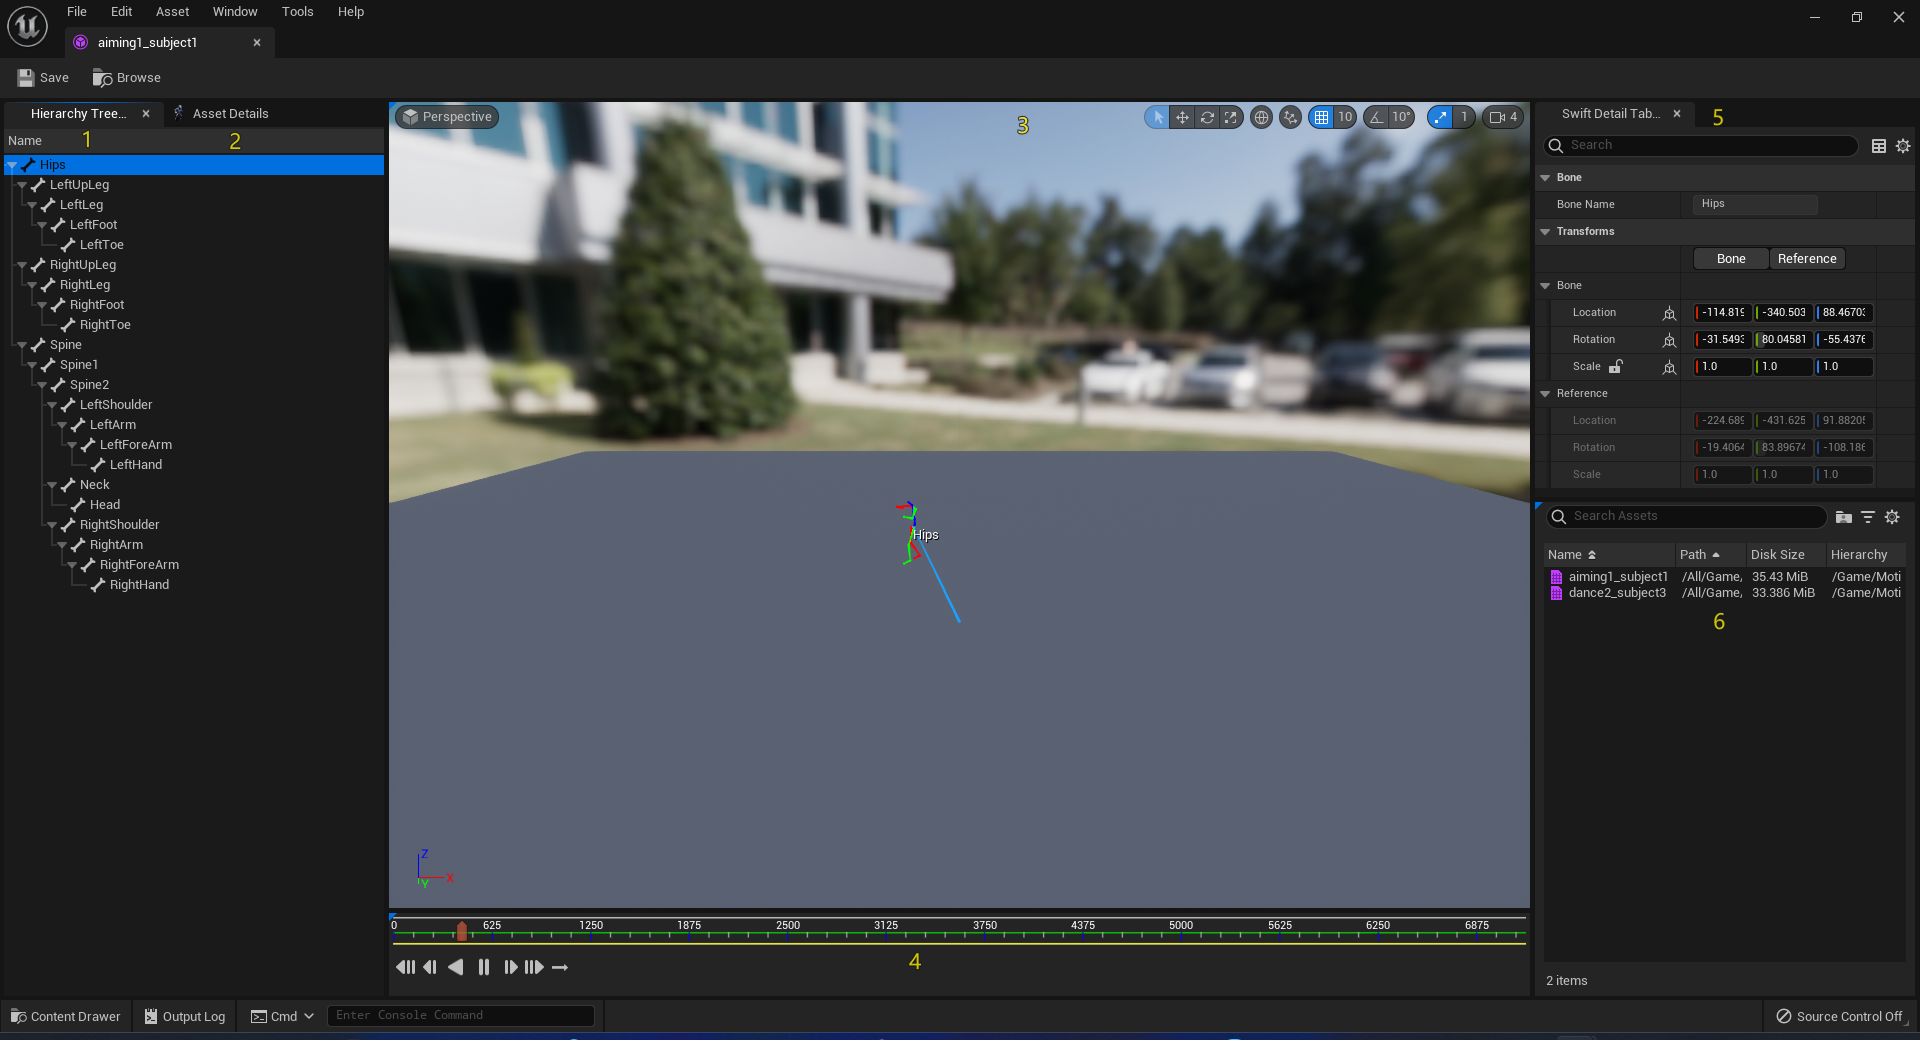
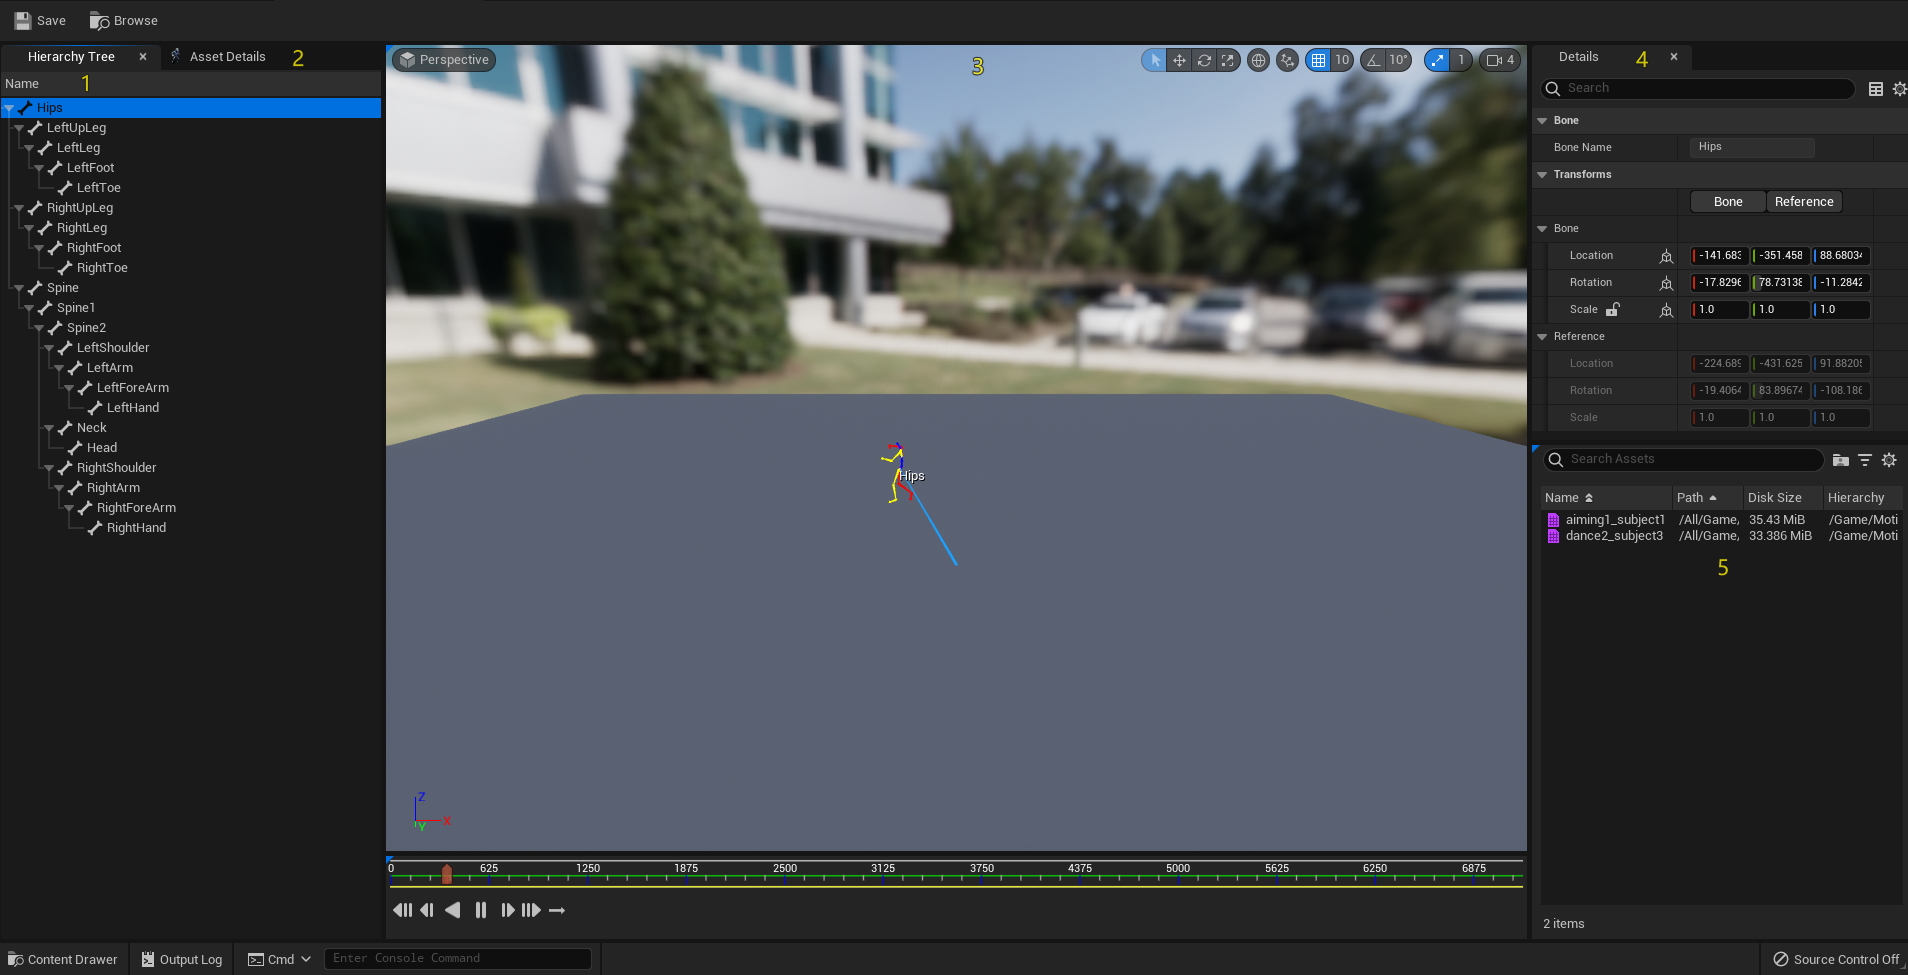
修复并增加资源和文档

diff --git a/doc_proj/docs/index_cn.md b/doc_proj/docs/index_cn.md
@@ -26,6 +26,7 @@
 * Motion Hierarchy
 
     *Motion Hierarchy* 资产记录了Mocap动画使用的的骨架拓扑结构并包含了一个重定向基础姿势。
+    
 
 * Motion Data
 
@@ -48,32 +49,143 @@
     *Motion to AnimSeq Retargeter* 持有一对 *Hierarchy Retargetable* 作为重定向的源和目标。 该资产允许用户对源和目标的骨骼链映射表，和FK、IK以及Root Motion进行配置。并提供重定向结果的预览和导出。
 
 ##编辑器
-* Motion Data Editor
 
-    支持对 Motion Data 的预览。
-![motion_data_editor_overview](img/motion_data_editor_overview.png)
 
-* Motion Hierarchy Editor
-
-    支持对 Motion Hierarchy 的预览和编辑。
+###Motion Hierarchy Editor
+支持对 Motion Hierarchy 的预览和编辑。
 ![motion_hierarchy_editor_overview](img/motion_hierarchy_editor_overview.png)
 
-* Motion Hierarchy Retargetable Editor
+####1. Hierarchy Tree Tab
+
+![motion_hierarchy_tree_tab](img/motion_hierarchy_tree_tab.png)
+
+####2. Asset Details
+
+![motion_data_editor_overview](img/motion_date_editor_asset_details.png)
+
+Property | Description
+------------ | -------------
+Left Joint Identification | 关节名称中左边的标识 
+Left Joint Display Color | 左边关节显示的颜色
+Right Joint Identification | 关节名称中右边的标识
+Right Joint Display Color | 右边关节显示的颜色
+Other Joint Display Color | 其它关节显示的颜色
+
+####3. Viewport Tab
+
+![hierarchy_viewport_details_tab](img/hierarchy_viewport_details_tab.png)
+
+####4. Details Tab
+
+![edit_retarget_base_pose](img/motion_details.png)
+
+####5. Retarget Base Pose Tab
+
+![edit_retarget_base_pose](img/edit_retarget_base_pose.png)
+
+Control | Description
+------------ | -------------
+Use Current Pose | 将视口中的姿势写入 *Retarget Base Pose* 
+Restore to Base Pose | 将 *Retarget Base Pose* 还原至视口
+Reset Pose | 将参考姿势写入 *Retarget Base Pose* 
+
+
+
+###Motion Data Editor
+
+    支持对 Motion Data 的预览。
+    
+![motion_data_editor_overview](img/motion_data_editor_overview.png)
+
+
+####1. Hierarchy Tree Tab
+
+![motion_hierarchy_tree_tab](img/motion_hierarchy_tree_tab.png)
+
+####2. Asset Details Tab
+
+![motion_hierarchy_retargetable_asset_details_tab](img/motion_data_asset_details_tab.png)
+
+####3. Viewport Tab
+
+![motion_hierarchy_viewport_details_tab](img/motion_viewport_details_tab.png)
+
+####4. Player Controller Tab
+
+![player_controller_tab](img/player_controller_tab.png)
+
+通过滚轮可以进行缩放
+![motion_data_player_controller_zoom](img/motion_data_player_controller_zoom.gif)
+
+右键拖拽可以左右平移时间轴
+![motion_data_player_controller_pan](img/motion_data_player_controller_pan.gif)
+
+####5. Details Tab
+
+![edit_retarget_base_pose](img/motion_details.png)
+
+####6. Motion Data Browser Tab
+
+![motion_data_browser](img/motion_data_browser.png)
+
+
+
+###Motion Hierarchy Retargetable Editor
 
     支持对 Motion Hierarchy Retargetable 的预览和编辑。
+    
 ![motion_hierarchy_retargetable_overview](img/motion_hierarchy_retargetable_overview.png)
 
-* Skeleton Hierarchy Editor
+####1. Hierarchy Tree Tab
+
+![motion_hierarchy_tree_tab](img/motion_hierarchy_tree_tab.png)
+
+####2. Asset Details Tab
+
+![motion_hierarchy_retargetable_asset_details_tab](img/motion_hierarchy_retargetable_asset_details_tab.png)
+
+####3. Viewport Tab
+
+![motion_hierarchy_viewport_details_tab](img/motion_hierarchy_viewport_details_tab.png)
+
+####4. Details Tab
+
+![edit_retarget_base_pose](img/motion_details.png)
+
+####5. Edit Retarget Base Pose Tab
+
+![edit_retarget_base_pose](img/edit_retarget_base_pose.png)
+
+Control | Description
+------------ | -------------
+Use Current Pose | 将视口中的姿势写入 *Retarget Base Pose* 
+Restore to Base Pose | 将 *Retarget Base Pose* 还原至视口
+Reset Pose | 将参考姿势写入 *Retarget Base Pose* 
+
+####6. Retarget Chains Tab
+
+![chain_settings](img/chain_settings.png)
+
+允许复制黏贴
+
+![retarget_chain_copy_paste.gif](img/retarget_chain_copy_paste.gif)
+
+
+
+###Skeleton Hierarchy Editor
 
     支持对 Skeleton Hierarchy 的预览和编辑。
-![skeleton_hierarchy_editor_overview.png](img/skeleton_hierarchy_editor_overview.png)
 
-* Skeleton Hierarchy Retargetable Editor
+###Skeleton Hierarchy Retargetable Editor
 
     支持对 Skeleton Hierarchy Retargetable 的预览和编辑。
 ![skeleton_hierarchy_retargetable_editor_overview](img/skeleton_hierarchy_retargetable_editor_overview.png)
 
-* Motion to AnimSeq Retargeter Editor
+
+
+
+
+###Motion to AnimSeq Retargeter Editor
 
     支持对 Motion to AnimSeq Retargeter 的预览和编辑。
 ![motion_to_animseq_retargeter_editor_overview](img/motion_to_animseq_retargeter_editor_overview.png)
@@ -374,26 +486,5 @@
 ![mixamo_to_ue_mesh_preview](img/mixamo_to_ue_mesh_preview.gif)
 
 
-##Properties
-Property | Description
------------- | -------------
-Bone to Modify | Name of bone to control. This is the main bone chain to modify from. 
-Look at Target | Target socket to look at. Used if LookAtBone is empty. - You can use  LookAtLocation if you need offset from this point. That location will be used in their local space. 
-Use Look Up Axis | Whether or not to use Look up axis 
-Up Axis Locked | If useLookUpAxis is enabled, whether or not to lock the Up Axis.
-Look Up Axis | If the Up Axis is used, System will try to rotate the bone around it until Forward Axis point to the desired point or be clamped.
-Look at Clamp | Look at Clamp value in degrees - it will clamp the modified look at axis in a cone which aligns to the original forward axis direction.
-Clamp Ratio | Clamp Ratio is the ratio of dimension in the pitch and yaw directions. 
-Approximate Clamp | Approximate Clamp is only effect when Use Up Axis is enabled and Up Axis Locked is disabled. It is a trade-off between performance and precision.
-Interpolated |  Whether or not interpolated.
-Interpolation Speed | Change rate of the interpolated parameter.
-Look at Target | Target socket to look at. Used if LookAtBone is empty. - You can use  LookAtLocation if you need offset from this point. That location will be used in their local space. 
-Look at Location | Target Offset. It's in world space if LookAtBone is empty or it is based on LookAtBone or LookAtSocket in their local space
-Show Bone Frame | Whether or not show the axes of the local coordinate system of Joint(Bone)
-Show Original Lock at Axis | Whether or not show the orignal LookAt Axis.
-Show Original Up Axis | Whether or not show the orignal Up Axis.
-Show Modified Look at Axis | Whether or not show the modified LookAt Axis.
-Show Modified Up Axis | Whether or not show the modified Up Axis. 
-Show Clamp Cone | Whether or not show the Clamp Cone. 
-Show Desired Target | Whether or not show desired target. 
+
 
